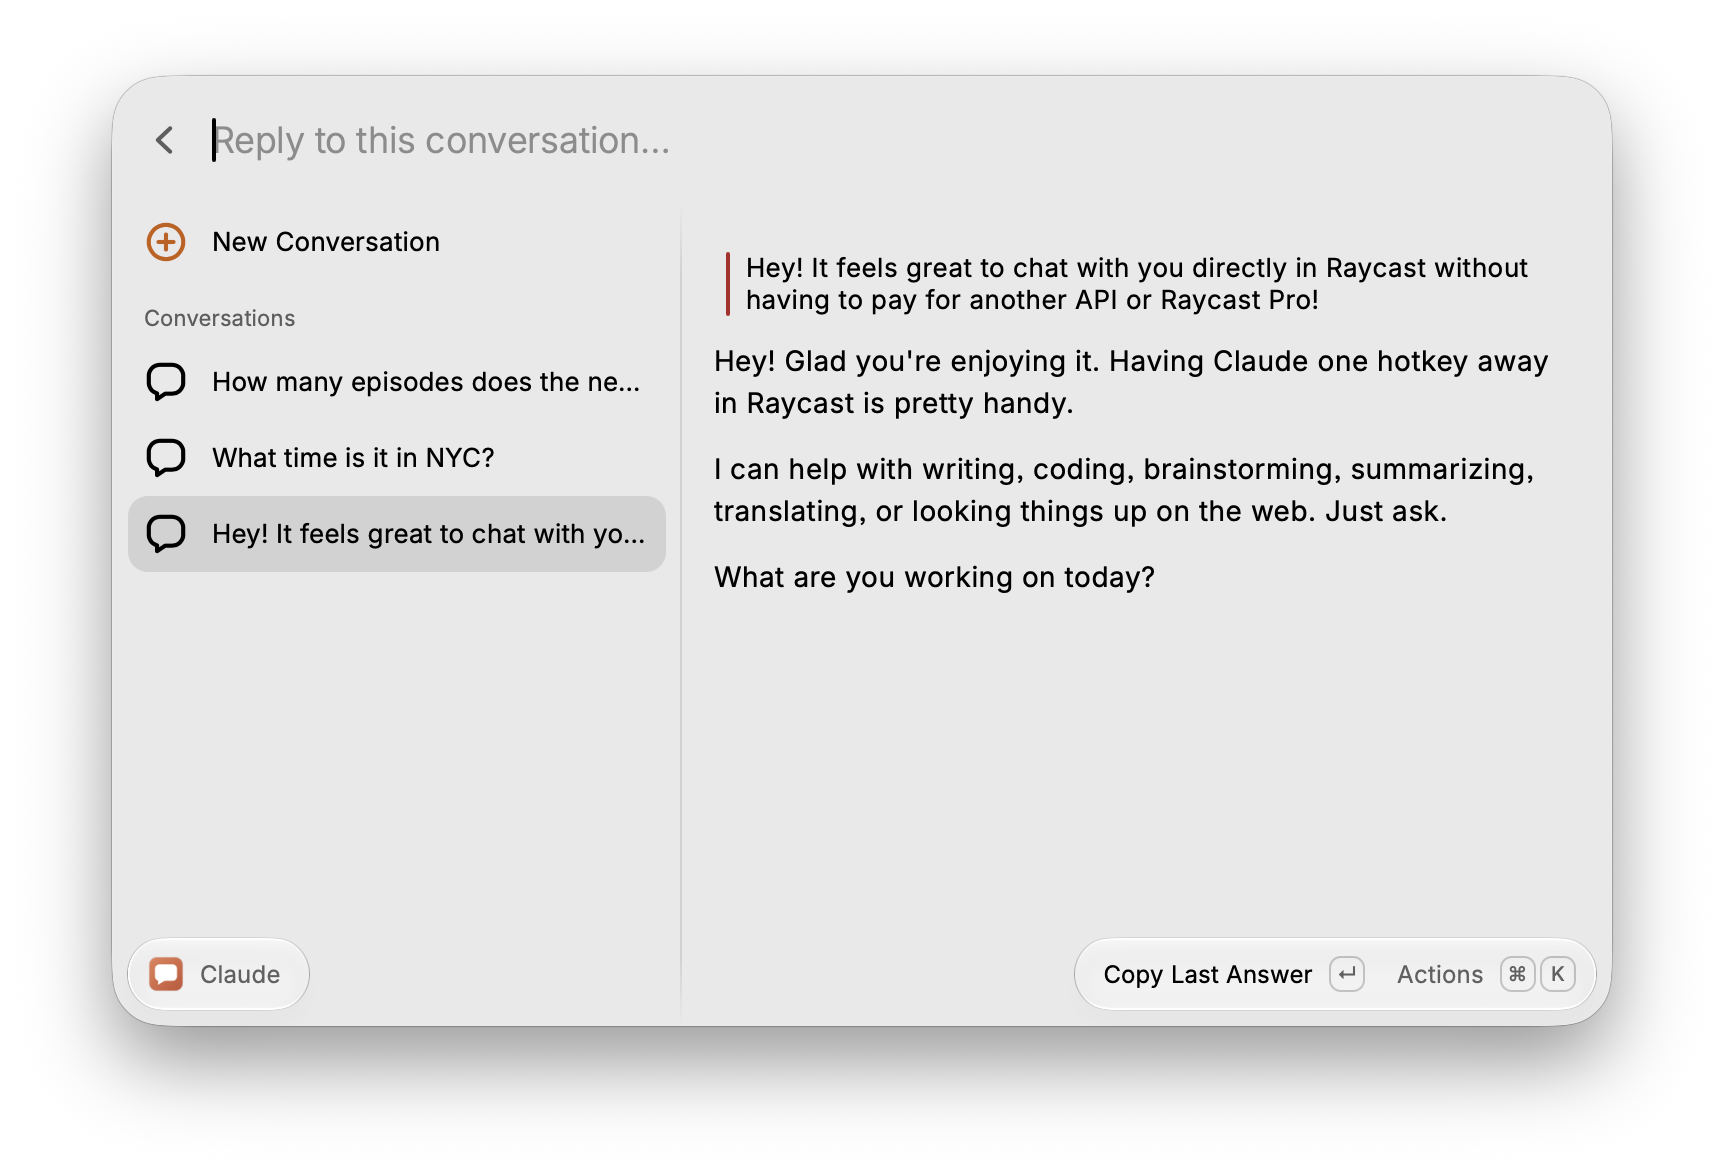
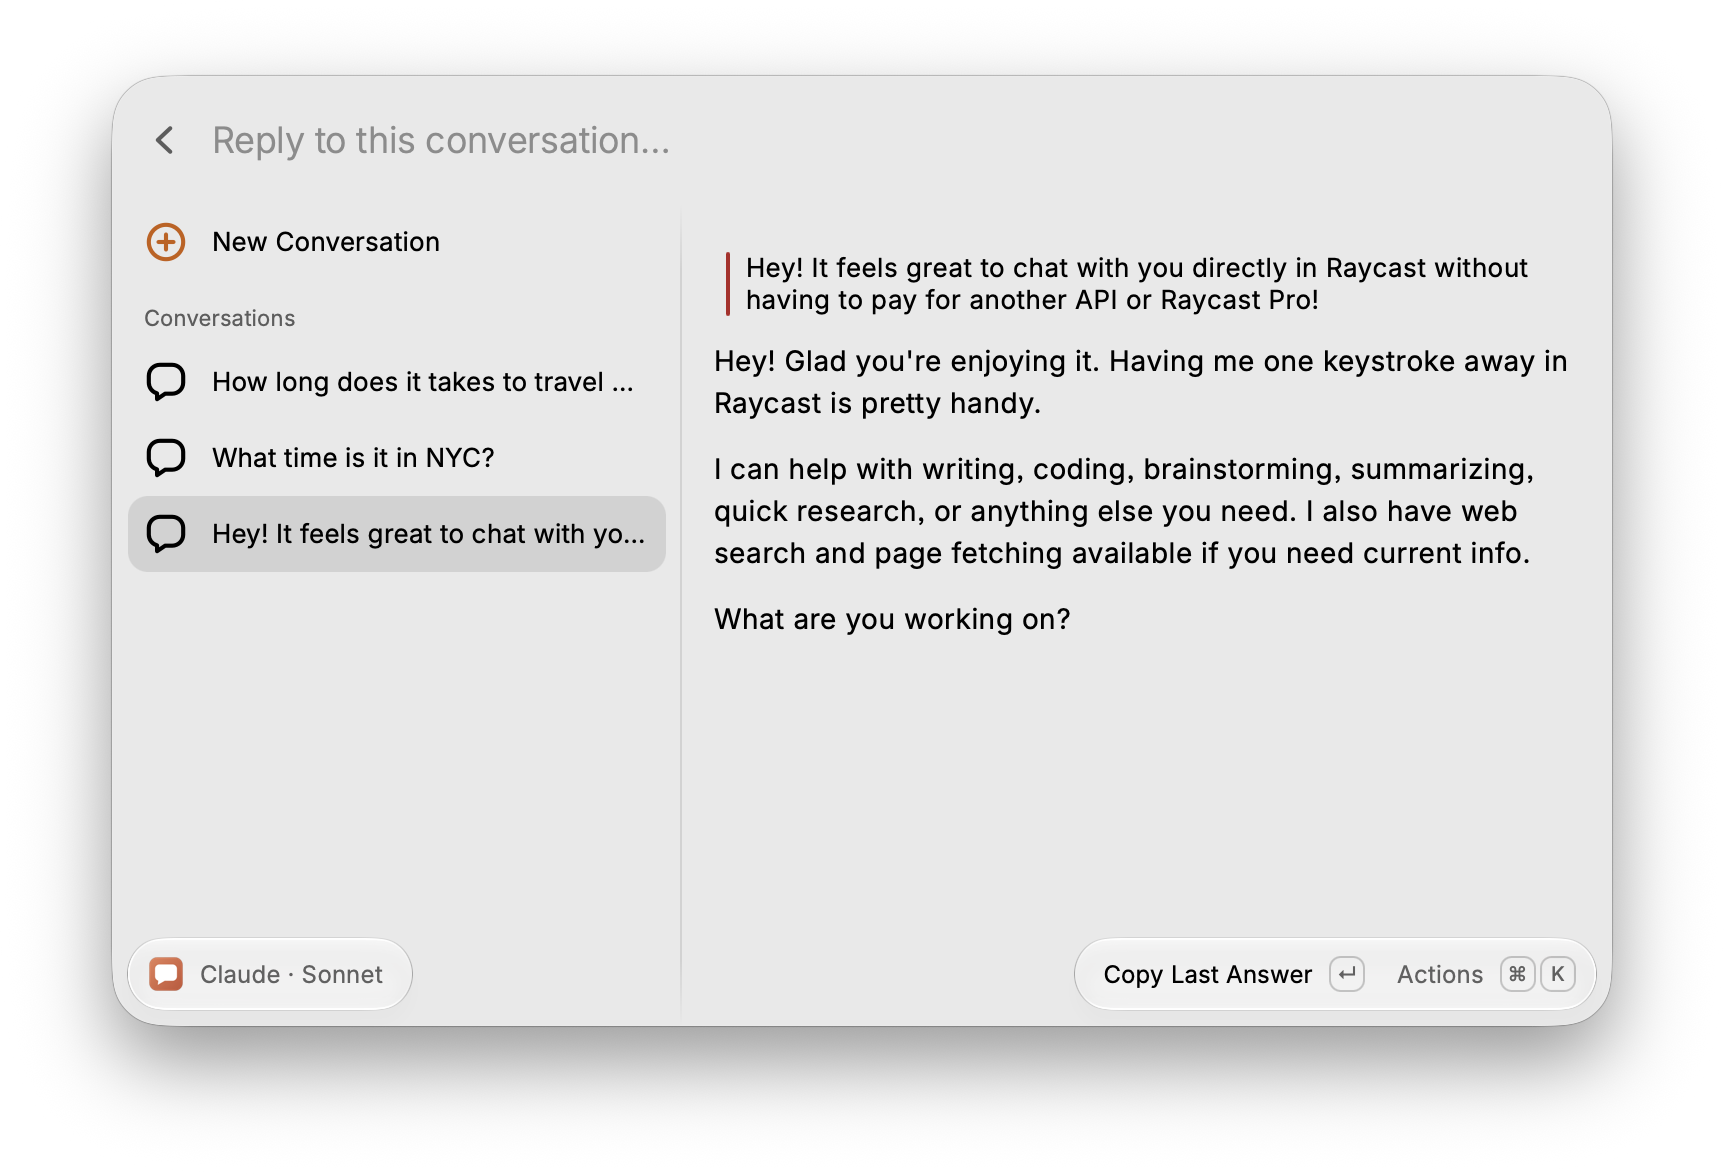
v1.0.2: native loading indicator in the chat
- While Claude answers, Raycast's animated toast shows what it is doing
  (answering, thinking, searching the web) instead of a static progress
  icon, and the conversation shows a typing bubble
- The chat title keeps showing the model only
- Refresh the chat screenshot

diff --git a/src/ask-claude.tsx b/src/ask-claude.tsx
@@ -117,6 +117,9 @@ export default function AskClaude(props: LaunchProps) {
     }
     setSearchText("");
     setStreamingTurnId(turn.id);
+    // Raycast's native spinner, also used to show what Claude is doing (thinking, searching the web…).
+    const answering = "Claude is answering…";
+    const toast = showToast({ style: Toast.Style.Animated, title: answering });
 
     let pendingText: string | undefined;
     let flushTimer: NodeJS.Timeout | undefined;
@@ -144,7 +147,10 @@ export default function AskClaude(props: LaunchProps) {
             pendingText = fullText;
             flushTimer ??= setTimeout(flush, RENDER_THROTTLE_MS);
           },
-          onStatus: setStatus,
+          onStatus: (next) => {
+            setStatus(next);
+            toast.then((t) => (t.title = next ?? answering));
+          },
         },
       );
       return runRef.current.promise;
@@ -165,6 +171,7 @@ export default function AskClaude(props: LaunchProps) {
       flush();
       updateTurn(conversation.id, turn.id, { error: errorMarkdown(error, Boolean(preferences.oauthToken?.trim())) });
     } finally {
+      toast.then((t) => t.hide());
       runRef.current = undefined;
       setStreamingTurnId(undefined);
       setStatus(undefined);
@@ -269,7 +276,7 @@ export default function AskClaude(props: LaunchProps) {
 
   function icon(conversation: Conversation) {
     const lastTurn = conversation.turns.at(-1);
-    if (lastTurn?.id === streamingTurnId) return { source: Icon.CircleProgress, tintColor: Color.Orange };
+    if (lastTurn?.id === streamingTurnId) return { source: Icon.SpeechBubbleActive, tintColor: Color.Orange };
     if (lastTurn?.error && !lastTurn.answer) return { source: Icon.ExclamationMark, tintColor: Color.Red };
     return Icon.Bubble;
   }
@@ -282,7 +289,7 @@ export default function AskClaude(props: LaunchProps) {
       searchText={searchText}
       onSearchTextChange={setSearchText}
       searchBarPlaceholder={current ? "Reply to this conversation…" : "Ask Claude anything…"}
-      navigationTitle={["Claude", modelName(preferences.model), status].filter(Boolean).join(" · ")}
+      navigationTitle={["Claude", modelName(preferences.model)].filter(Boolean).join(" · ")}
       isShowingDetail
       selectedItemId={currentId}
       onSelectionChange={(id) => id && setCurrentId(id)}
